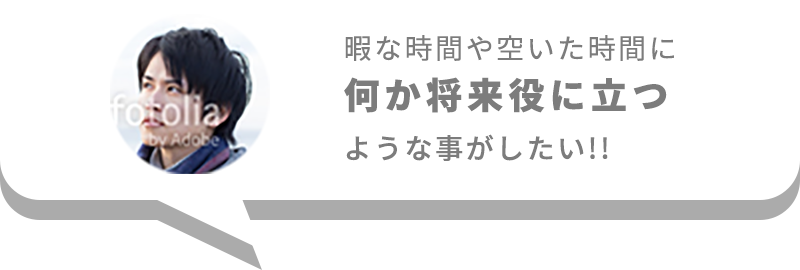
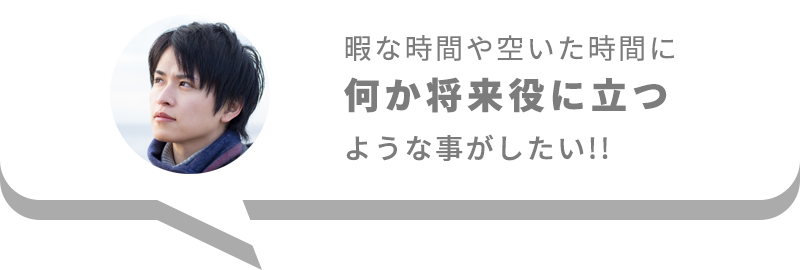
update spot detail text and update images

Changed region(s): [[0.1562, 0.0593, 0.3438, 0.6519]]

diff --git a/index.html b/index.html
@@ -278,14 +278,14 @@
                 <p class="p-spot__usageUserText"><span class="p-spot__usageUserTextStrong">海外支援団体所属B子さん</span>の場合</p>
                 <div class="p-spot__usageFlow">
                   <img class="p-spot__usageFlowFirstImg" src="images/spot_work_02.png" alt="">
-                  <p class="p-spot__usageFlowText">テキストテキストテキスト<br>テキストテキストテキストテキ<br>
+                  <p class="p-spot__usageFlowText">『企業イベントに<br>参加してみませんか？』に<br>
                     <span class="p-spot__usageFlowFirstTextLarge">エントリー</span>
                   </p>
                   <i class="p-spot__usageFlowArrow fa fa-caret-right fa-3x" aria-hidden="true"></i>
                   <i class="p-spotMobile__usageFlowArrow fa fa-caret-down fa-3x" aria-hidden="true"></i>
                   <img class="p-spot__usageFlowSecondImg" src="images/spot_ad.png" alt="">
-                  <p class="p-spot__usageFlowText">テキストテキストテキストテキスト<br>テキストテキストテキ<br>
-                    <span class="p-spot__usageFlowSecondTextLarge">新商品を宣伝</span>
+                  <p class="p-spot__usageFlowText">企業のイベントに参加して<br>
+                    <span class="p-spot__usageFlowSecondTextLarge">アンケート回答</span>
                   </p>
                   <i class="p-spot__usageFlowArrow fa fa-caret-right fa-3x" aria-hidden="true"></i>
                   <i class="p-spotMobile__usageFlowArrow fa fa-caret-down fa-3x" aria-hidden="true"></i>
@@ -300,14 +300,14 @@
                 <p class="p-spot__usageUserText"><span class="p-spot__usageUserTextStrong">理系大学生C君</span>の場合</p>
                 <div class="p-spot__usageFlow">
                   <img class="p-spot__usageFlowFirstImg" src="images/spot_work_03.png" alt="">
-                  <p class="p-spot__usageFlowText">『メンズアパレルブランド<br>新商品をSNSで宣伝』に<br>
+                  <p class="p-spot__usageFlowText">『新作ゲームアプリをテストプレイしてください!!』に<br>
                     <span class="p-spot__usageFlowFirstTextLarge">エントリー</span>
                   </p>
                   <i class="p-spot__usageFlowArrow fa fa-caret-right fa-3x" aria-hidden="true"></i>
                   <i class="p-spotMobile__usageFlowArrow fa fa-caret-down fa-3x" aria-hidden="true"></i>
                   <img class="p-spot__usageFlowSecondImg" src="images/spot_ad.png" alt="">
-                  <p class="p-spot__usageFlowText">フォロワー数20,000人の<br>Twitterアカウントで<br>
-                    <span class="p-spot__usageFlowSecondTextLarge">新商品を宣伝</span>
+                  <p class="p-spot__usageFlowText">リリース前の<br>ゲームアプリをテストして<br>
+                    <span class="p-spot__usageFlowSecondTextLarge">アプリレビュー</span>
                   </p>
                   <i class="p-spot__usageFlowArrow fa fa-caret-right fa-3x" aria-hidden="true"></i>
                   <i class="p-spotMobile__usageFlowArrow fa fa-caret-down fa-3x" aria-hidden="true"></i>
@@ -322,14 +322,14 @@
                 <p class="p-spot__usageUserText"><span class="p-spot__usageUserTextStrong">イベントサークル所属D子さん</span>の場合</p>
                 <div class="p-spot__usageFlow p-spot__usageFlow--last">
                   <img class="p-spot__usageFlowFirstImg" src="images/spot_work_04.png" alt="">
-                  <p class="p-spot__usageFlowText">『メンズアパレルブランド<br>新商品をSNSで宣伝』に<br>
+                  <p class="p-spot__usageFlowText">『渋谷でオシャレ女子に<br>パンフレット配布』に<br>
                     <span class="p-spot__usageFlowFirstTextLarge">エントリー</span>
                   </p>
                   <i class="p-spot__usageFlowArrow fa fa-caret-right fa-3x" aria-hidden="true"></i>
                   <i class="p-spotMobile__usageFlowArrow fa fa-caret-down fa-3x" aria-hidden="true"></i>
                   <img class="p-spot__usageFlowSecondImg" src="images/spot_ad.png" alt="">
-                  <p class="p-spot__usageFlowText">フォロワー数20,000人の<br>Twitterアカウントで<br>
-                    <span class="p-spot__usageFlowSecondTextLarge">新商品を宣伝</span>
+                  <p class="p-spot__usageFlowText">パンフレット200枚<br>配布して<br>
+                    <span class="p-spot__usageFlowSecondTextLarge">新商品告知</span>
                   </p>
                   <i class="p-spot__usageFlowArrow fa fa-caret-right fa-3x" aria-hidden="true"></i>
                   <i class="p-spotMobile__usageFlowArrow fa fa-caret-down fa-3x" aria-hidden="true"></i>
@@ -538,7 +538,7 @@
       </div>
       <div class="l-footer__copyright">
         <div class="l-content">
-          <p class="l-footer__copyrightText">©2016 identity.INC - ALL RIGHTS RESERVED.</p>
+          <p class="l-footer__copyrightText">©2016 identity.inc - all rights reserved.</p>
         </div>
       </div>
       <div class="l-footer__download s-footer__download">

diff --git a/styles/css/style.css b/styles/css/style.css
@@ -381,6 +381,8 @@ input:-webkit-autofill, textarea:-webkit-autofill, select:-webkit-autofill {
       justify-content: space-around; }
 
 @media (max-width: 1024px) {
+  .l-footer__copyrightText {
+    padding: 50px 0 85px; }
   .l-footer__download {
     z-index: 12;
     display: block; } }
@@ -934,7 +936,7 @@ input:-webkit-autofill, textarea:-webkit-autofill, select:-webkit-autofill {
       margin-left: 1%; }
     .p-spot__usageFlowSecondTextLarge {
       font-size: 1.8rem;
-      color: #fce409;
+      color: #fec02a;
       font-weight: bold; }
     .p-spot__usageFlowThirdText {
       color: #ff5353;

diff --git a/styles/sass/object/project/_spot.sass b/styles/sass/object/project/_spot.sass
@@ -68,7 +68,7 @@
           margin-left: 1%
         &TextLarge
           font-size: 1.8rem
-          color: $subColor
+          color: #fec02a
           font-weight: bold
       &ThirdText
         color: #ff5353

diff --git a/styles/sass/layout/_footer.sass b/styles/sass/layout/_footer.sass
@@ -36,6 +36,9 @@
 
 @media (max-width: $breakpointTab)
   .l-footer
+    &__copyright
+      &Text
+        padding: 50px 0 85px
     &__download
       z-index: 12
       display: block
